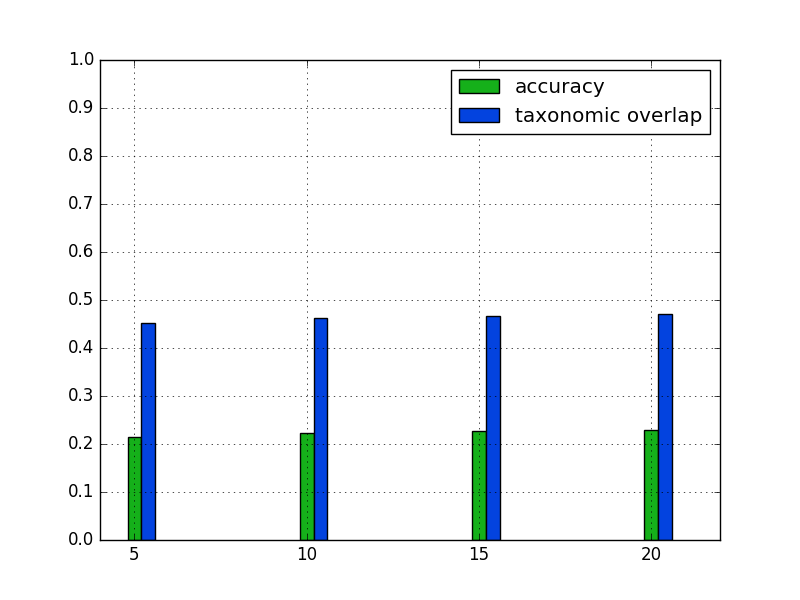
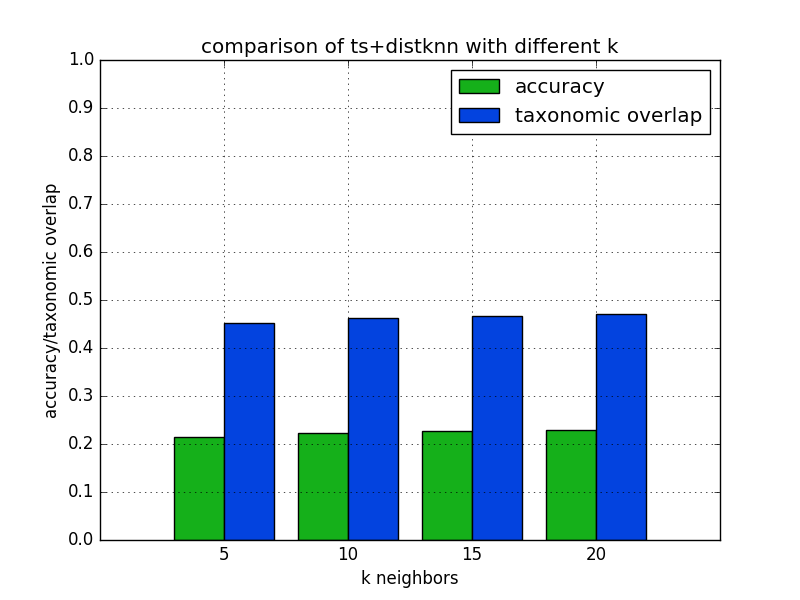
Added evaluation plot of ts+linproj. Improved evaluation plots.

diff --git a/scripts/evaluation/plot_accuracy_avg_overlap.py b/scripts/evaluation/plot_accuracy_avg_overlap.py
@@ -5,6 +5,26 @@ import matplotlib.pyplot as plt
 import numpy as np
 
 
+def plot_accuracy_overlap_plot(title, xlabel, xticks, accuracies, overlaps, output_path):
+    width = np.max(xticks) / 10.0
+    offset = width / 2.0
+
+    plt.figure(1)
+    plt.clf()
+    plt.ylim([0, 1])
+    acc_rect = plt.bar(xticks-offset*2, accuracies, width=width, color='#15b01a')
+    over_rect = plt.bar(xticks, overlaps, width=width, color='#0343df')
+    plt.xticks(xticks)
+    plt.yticks(np.arange(0, 1.1, 0.1))
+    plt.legend((acc_rect, over_rect), ('accuracy', 'taxonomic overlap'))
+    plt.grid(True)
+    plt.xlabel(xlabel)
+    plt.ylabel('accuracy/taxonomic overlap')
+    plt.title(title)
+    plt.savefig(output_path)
+    logging.log(level=logging.INFO, msg='stored ts+distknn evaluation plot to {}'.format(output_path))
+
+
 def main():
     logging.basicConfig(format='%(asctime)s : %(levelname)s : %(message)s', level=logging.DEBUG)
 
@@ -15,8 +35,8 @@ def main():
         config = json.load(f)
 
     evaluation_path = config['evaluation']
-    knn_plot_output = config['knn evaluation plot']
-    linproj_plot_output = config['linproj evaluation plot']
+    ts_knn_plot_output = config['ts+distknn evaluation plot']
+    ts_linproj_plot_output = config['ts+linproj evaluation plot']
 
     accuracies = dict()
     overlaps = dict()
@@ -27,21 +47,23 @@ def main():
             overlaps[r[0]] = float(r[4])
     logging.log(level=logging.INFO, msg='loaded evaluation results')
 
-    # plot ts+distknn(k=?) accuracies and overlaps
-    plt.figure(1)
-    plt.clf()
+    plot_accuracy_overlap_plot(
+        'comparison of ts+distknn with different k',
+        'k neighbors',
+        k_neighbors,
+        np.array([accuracies['ts+distknn(k={})'.format(k)] for k in k_neighbors]),
+        np.array([overlaps['ts+distknn(k={})'.format(k)] for k in k_neighbors]),
+        ts_knn_plot_output
+    )
 
-    plt.ylim([0, 1])
-    knn_accuracies = np.array([accuracies['ts+distknn(k={})'.format(k)] for k in k_neighbors])
-    knn_overlaps = np.array([overlaps['ts+distknn(k={})'.format(k)] for k in k_neighbors])
-    acc_rect = plt.bar(k_neighbors-0.2, knn_accuracies, width=0.4, color='#15b01a')
-    over_rect = plt.bar(k_neighbors+0.2, knn_overlaps, width=0.4, color='#0343df')
-    plt.xticks(k_neighbors)
-    plt.yticks(np.arange(0, 1.1, 0.1))
-    plt.legend((acc_rect, over_rect), ('accuracy', 'taxonomic overlap'))
-    plt.grid(True)
-    plt.savefig(knn_plot_output)
-    logging.log(level=logging.INFO, msg='stored knn evaluation plot to {}'.format(knn_plot_output))
+    plot_accuracy_overlap_plot(
+        'comparison of ts+linproj with different c',
+        'c clusters',
+        c_clusters,
+        np.array([accuracies['ts+linproj(c={})'.format(c)] for c in c_clusters]),
+        np.array([overlaps['ts+linproj(c={})'.format(c)] for c in c_clusters]),
+        ts_linproj_plot_output
+    )
 
 
 if __name__ == '__main__':
